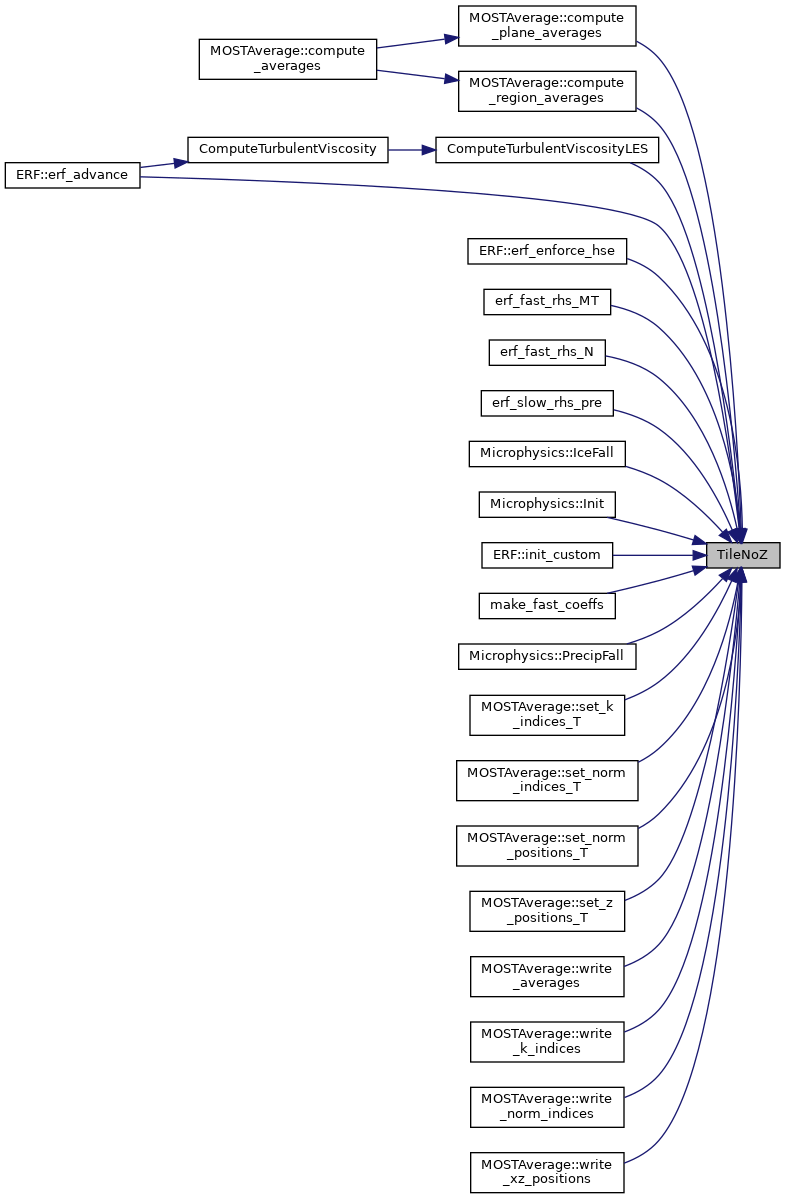
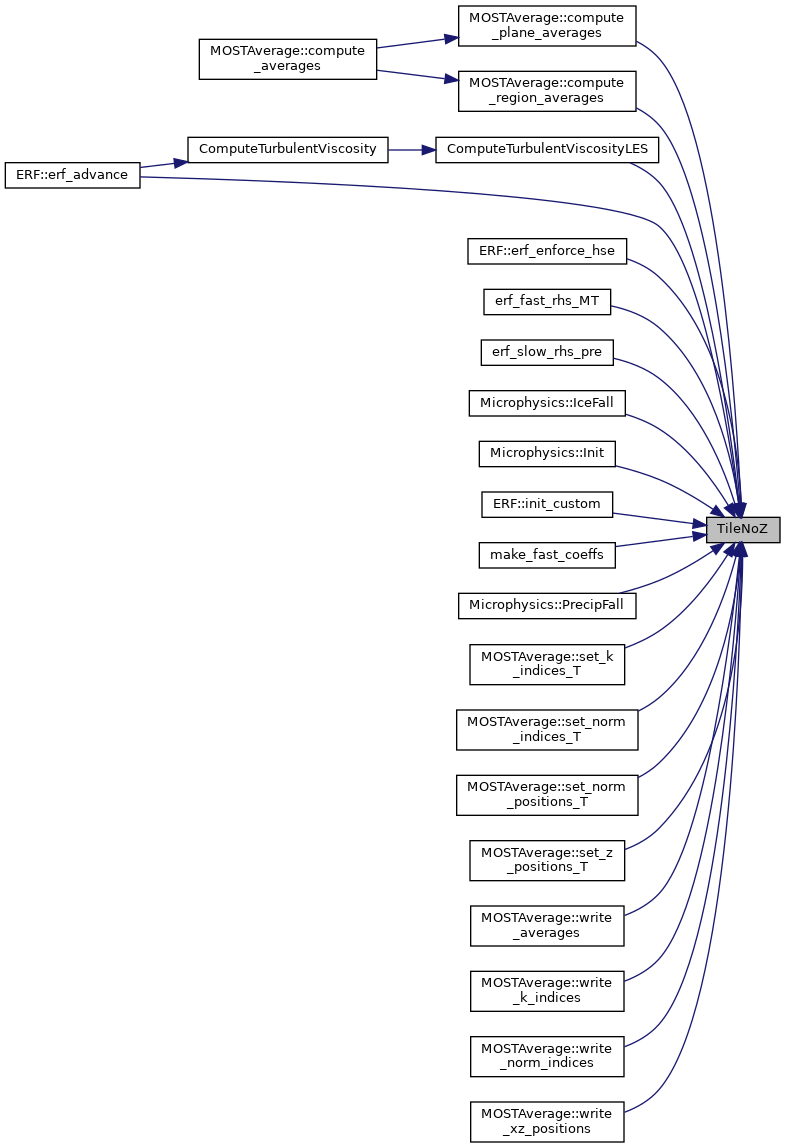
Deployed from erf-model/ERF

Changed region(s): [[0.0, 0.0, 1.0, 1.0]]

diff --git a/TileNoZ_8H.html b/TileNoZ_8H.html
@@ -159,34 +159,33 @@ Functions</h2></td></tr>
 <div class="line"><a name="l00017"></a><span class="lineno">   17</span>&#160;    }</div>
 <div class="line"><a name="l00018"></a><span class="lineno">   18</span>&#160;}</div>
 </div><!-- fragment -->
-<p class="reference">Referenced by <a class="el" href="classMOSTAverage.html#ab85828af24cd22d737931c51862389e4">MOSTAverage::compute_plane_averages()</a>, <a class="el" href="classMOSTAverage.html#aaea0b00766b3cdeefd2b54bade8a86bd">MOSTAverage::compute_region_averages()</a>, <a class="el" href="ComputeTurbulentViscosity_8cpp.html#a5f38bf67ee940aef98521a39567d118f">ComputeTurbulentViscosityLES()</a>, <a class="el" href="classERF.html#a9a433af6374ce91656cdcce017211d3c">ERF::erf_advance()</a>, <a class="el" href="classERF.html#a1f4902e264ff9b48001461c3555c0590">ERF::erf_enforce_hse()</a>, <a class="el" href="ERF__fast__rhs__MT_8cpp.html#aeeb87459a2ea185bee104cfb365acdb2">erf_fast_rhs_MT()</a>, <a class="el" href="ERF__fast__rhs__N_8cpp.html#aadacad33479f795b919b2ecb6e5ebc8d">erf_fast_rhs_N()</a>, <a class="el" href="ERF__slow__rhs__pre_8cpp.html#ab2b905f4565b08ff821adadef3dafe81">erf_slow_rhs_pre()</a>, <a class="el" href="classMicrophysics.html#a1a610a19be3a183229eea21306ef1b07">Microphysics::IceFall()</a>, <a class="el" href="classMicrophysics.html#a6c80ba07cd87a8f385ccfdf1a3a21c25">Microphysics::Init()</a>, <a class="el" href="classERF.html#a604939a8058f7efa36a427adb889739c">ERF::init_custom()</a>, <a class="el" href="ERF__make__fast__coeffs_8cpp.html#a383bfe63fc9258f3ad1b943b58b9341f">make_fast_coeffs()</a>, <a class="el" href="classMicrophysics.html#ab4ab2a17016feb12618a4c6e6c72febc">Microphysics::PrecipFall()</a>, <a class="el" href="classMOSTAverage.html#a1892a3f9c2175cd2323d8d3a3bc83b6c">MOSTAverage::set_k_indices_T()</a>, <a class="el" href="classMOSTAverage.html#a2908278cc9088e345af422a187eba337">MOSTAverage::set_norm_indices_T()</a>, <a class="el" href="classMOSTAverage.html#a697396705fddae5c919c7e4020cf20b2">MOSTAverage::set_norm_positions_T()</a>, <a class="el" href="classMOSTAverage.html#a96178b02bec37f171ef608cec9a246bf">MOSTAverage::set_z_positions_T()</a>, <a class="el" href="classMOSTAverage.html#ac37b71ce655ea973ad6fc4c564b040c1">MOSTAverage::write_averages()</a>, <a class="el" href="classMOSTAverage.html#a612fdb06ff433e33c717198c7e3e4b0b">MOSTAverage::write_k_indices()</a>, <a class="el" href="classMOSTAverage.html#ab886a0b96314880c4769318c81b23fbb">MOSTAverage::write_norm_indices()</a>, and <a class="el" href="classMOSTAverage.html#a221a026c642af21a051b05b2b4ea763a">MOSTAverage::write_xz_positions()</a>.</p>
+<p class="reference">Referenced by <a class="el" href="classMOSTAverage.html#ab85828af24cd22d737931c51862389e4">MOSTAverage::compute_plane_averages()</a>, <a class="el" href="classMOSTAverage.html#aaea0b00766b3cdeefd2b54bade8a86bd">MOSTAverage::compute_region_averages()</a>, <a class="el" href="ComputeTurbulentViscosity_8cpp.html#a5f38bf67ee940aef98521a39567d118f">ComputeTurbulentViscosityLES()</a>, <a class="el" href="classERF.html#a9a433af6374ce91656cdcce017211d3c">ERF::erf_advance()</a>, <a class="el" href="classERF.html#a1f4902e264ff9b48001461c3555c0590">ERF::erf_enforce_hse()</a>, <a class="el" href="ERF__fast__rhs__MT_8cpp.html#aeeb87459a2ea185bee104cfb365acdb2">erf_fast_rhs_MT()</a>, <a class="el" href="ERF__slow__rhs__pre_8cpp.html#ab2b905f4565b08ff821adadef3dafe81">erf_slow_rhs_pre()</a>, <a class="el" href="classMicrophysics.html#a1a610a19be3a183229eea21306ef1b07">Microphysics::IceFall()</a>, <a class="el" href="classMicrophysics.html#a6c80ba07cd87a8f385ccfdf1a3a21c25">Microphysics::Init()</a>, <a class="el" href="classERF.html#a604939a8058f7efa36a427adb889739c">ERF::init_custom()</a>, <a class="el" href="ERF__make__fast__coeffs_8cpp.html#a383bfe63fc9258f3ad1b943b58b9341f">make_fast_coeffs()</a>, <a class="el" href="classMicrophysics.html#ab4ab2a17016feb12618a4c6e6c72febc">Microphysics::PrecipFall()</a>, <a class="el" href="classMOSTAverage.html#a1892a3f9c2175cd2323d8d3a3bc83b6c">MOSTAverage::set_k_indices_T()</a>, <a class="el" href="classMOSTAverage.html#a2908278cc9088e345af422a187eba337">MOSTAverage::set_norm_indices_T()</a>, <a class="el" href="classMOSTAverage.html#a697396705fddae5c919c7e4020cf20b2">MOSTAverage::set_norm_positions_T()</a>, <a class="el" href="classMOSTAverage.html#a96178b02bec37f171ef608cec9a246bf">MOSTAverage::set_z_positions_T()</a>, <a class="el" href="classMOSTAverage.html#ac37b71ce655ea973ad6fc4c564b040c1">MOSTAverage::write_averages()</a>, <a class="el" href="classMOSTAverage.html#a612fdb06ff433e33c717198c7e3e4b0b">MOSTAverage::write_k_indices()</a>, <a class="el" href="classMOSTAverage.html#ab886a0b96314880c4769318c81b23fbb">MOSTAverage::write_norm_indices()</a>, and <a class="el" href="classMOSTAverage.html#a221a026c642af21a051b05b2b4ea763a">MOSTAverage::write_xz_positions()</a>.</p>
 <div class="dynheader">
 Here is the caller graph for this function:</div>
 <div class="dyncontent">
 <div class="center"><img src="TileNoZ_8H_a8da113f1d5603f7297fe1d03e5013f00_icgraph.png" border="0" usemap="#aTileNoZ_8H_a8da113f1d5603f7297fe1d03e5013f00_icgraph" alt=""/></div>
 <map name="aTileNoZ_8H_a8da113f1d5603f7297fe1d03e5013f00_icgraph" id="aTileNoZ_8H_a8da113f1d5603f7297fe1d03e5013f00_icgraph">
-<area shape="rect" title=" " alt="" coords="707,542,780,569"/>
+<area shape="rect" title=" " alt="" coords="707,517,780,543"/>
 <area shape="rect" href="classMOSTAverage.html#ab85828af24cd22d737931c51862389e4" title=" " alt="" coords="459,5,636,47"/>
 <area shape="rect" href="classMOSTAverage.html#aaea0b00766b3cdeefd2b54bade8a86bd" title=" " alt="" coords="459,71,636,112"/>
 <area shape="rect" href="ComputeTurbulentViscosity_8cpp.html#a5f38bf67ee940aef98521a39567d118f" title=" " alt="" coords="436,137,659,163"/>
 <area shape="rect" href="classERF.html#a9a433af6374ce91656cdcce017211d3c" title=" " alt="" coords="5,162,140,189"/>
 <area shape="rect" href="classERF.html#a1f4902e264ff9b48001461c3555c0590" title=" " alt="" coords="468,238,627,265"/>
 <area shape="rect" href="ERF__fast__rhs__MT_8cpp.html#aeeb87459a2ea185bee104cfb365acdb2" title=" " alt="" coords="484,289,611,315"/>
-<area shape="rect" href="ERF__fast__rhs__N_8cpp.html#aadacad33479f795b919b2ecb6e5ebc8d" title=" " alt="" coords="489,339,605,366"/>
-<area shape="rect" href="ERF__slow__rhs__pre_8cpp.html#ab2b905f4565b08ff821adadef3dafe81" title=" " alt="" coords="481,390,613,417"/>
-<area shape="rect" href="classMicrophysics.html#a1a610a19be3a183229eea21306ef1b07" title=" " alt="" coords="469,441,625,467"/>
-<area shape="rect" href="classMicrophysics.html#a6c80ba07cd87a8f385ccfdf1a3a21c25" title=" " alt="" coords="479,491,615,518"/>
-<area shape="rect" href="classERF.html#a604939a8058f7efa36a427adb889739c" title=" " alt="" coords="482,542,613,569"/>
-<area shape="rect" href="ERF__make__fast__coeffs_8cpp.html#a383bfe63fc9258f3ad1b943b58b9341f" title=" " alt="" coords="479,593,615,619"/>
-<area shape="rect" href="classMicrophysics.html#ab4ab2a17016feb12618a4c6e6c72febc" title=" " alt="" coords="459,643,636,670"/>
-<area shape="rect" href="classMOSTAverage.html#a1892a3f9c2175cd2323d8d3a3bc83b6c" title=" " alt="" coords="470,695,625,736"/>
-<area shape="rect" href="classMOSTAverage.html#a2908278cc9088e345af422a187eba337" title=" " alt="" coords="457,760,638,801"/>
-<area shape="rect" href="classMOSTAverage.html#a697396705fddae5c919c7e4020cf20b2" title=" " alt="" coords="457,825,638,867"/>
-<area shape="rect" href="classMOSTAverage.html#a96178b02bec37f171ef608cec9a246bf" title=" " alt="" coords="470,891,625,932"/>
-<area shape="rect" href="classMOSTAverage.html#ac37b71ce655ea973ad6fc4c564b040c1" title=" " alt="" coords="471,956,624,997"/>
-<area shape="rect" href="classMOSTAverage.html#a612fdb06ff433e33c717198c7e3e4b0b" title=" " alt="" coords="471,1021,624,1063"/>
-<area shape="rect" href="classMOSTAverage.html#ab886a0b96314880c4769318c81b23fbb" title=" " alt="" coords="471,1087,624,1128"/>
-<area shape="rect" href="classMOSTAverage.html#a221a026c642af21a051b05b2b4ea763a" title=" " alt="" coords="471,1152,624,1193"/>
+<area shape="rect" href="ERF__slow__rhs__pre_8cpp.html#ab2b905f4565b08ff821adadef3dafe81" title=" " alt="" coords="481,339,613,366"/>
+<area shape="rect" href="classMicrophysics.html#a1a610a19be3a183229eea21306ef1b07" title=" " alt="" coords="469,390,625,417"/>
+<area shape="rect" href="classMicrophysics.html#a6c80ba07cd87a8f385ccfdf1a3a21c25" title=" " alt="" coords="479,441,615,467"/>
+<area shape="rect" href="classERF.html#a604939a8058f7efa36a427adb889739c" title=" " alt="" coords="482,491,613,518"/>
+<area shape="rect" href="ERF__make__fast__coeffs_8cpp.html#a383bfe63fc9258f3ad1b943b58b9341f" title=" " alt="" coords="479,542,615,569"/>
+<area shape="rect" href="classMicrophysics.html#ab4ab2a17016feb12618a4c6e6c72febc" title=" " alt="" coords="459,593,636,619"/>
+<area shape="rect" href="classMOSTAverage.html#a1892a3f9c2175cd2323d8d3a3bc83b6c" title=" " alt="" coords="470,644,625,685"/>
+<area shape="rect" href="classMOSTAverage.html#a2908278cc9088e345af422a187eba337" title=" " alt="" coords="457,709,638,751"/>
+<area shape="rect" href="classMOSTAverage.html#a697396705fddae5c919c7e4020cf20b2" title=" " alt="" coords="457,775,638,816"/>
+<area shape="rect" href="classMOSTAverage.html#a96178b02bec37f171ef608cec9a246bf" title=" " alt="" coords="470,840,625,881"/>
+<area shape="rect" href="classMOSTAverage.html#ac37b71ce655ea973ad6fc4c564b040c1" title=" " alt="" coords="471,905,624,947"/>
+<area shape="rect" href="classMOSTAverage.html#a612fdb06ff433e33c717198c7e3e4b0b" title=" " alt="" coords="471,971,624,1012"/>
+<area shape="rect" href="classMOSTAverage.html#ab886a0b96314880c4769318c81b23fbb" title=" " alt="" coords="471,1036,624,1077"/>
+<area shape="rect" href="classMOSTAverage.html#a221a026c642af21a051b05b2b4ea763a" title=" " alt="" coords="471,1101,624,1143"/>
 <area shape="rect" href="classMOSTAverage.html#a7a28005871bb8abb49f44c3976133a4f" title=" " alt="" coords="199,39,377,80"/>
 <area shape="rect" href="ComputeTurbulentViscosity_8cpp.html#a6f88eeb22db221477763a0bc21307258" title=" " alt="" coords="188,137,388,163"/>
 </map>

diff --git a/ERF__fast__rhs__N_8cpp.html b/ERF__fast__rhs__N_8cpp.html
@@ -369,8 +369,8 @@ Functions</h2></td></tr>
 <div class="line"><a name="l00135"></a><span class="lineno">  135</span>&#160;<span class="preprocessor">#ifdef _OPENMP</span></div>
 <div class="line"><a name="l00136"></a><span class="lineno">  136</span>&#160;<span class="preprocessor">#pragma omp parallel if (amrex::Gpu::notInLaunchRegion())</span></div>
 <div class="line"><a name="l00137"></a><span class="lineno">  137</span>&#160;<span class="preprocessor">#endif</span></div>
-<div class="line"><a name="l00138"></a><span class="lineno">  138</span>&#160;    <span class="keywordflow">for</span> ( MFIter mfi(S_stage_data[<a class="code" href="namespaceIntVar.html#ae96c1cd796f723e15dfbf718f1a9c76da22501eeeb48d3d47f802dcb78c88f7ae">IntVar::cons</a>],<a class="code" href="TileNoZ_8H.html#a8da113f1d5603f7297fe1d03e5013f00">TileNoZ</a>()); mfi.isValid(); ++mfi)</div>
-<div class="line"><a name="l00139"></a><span class="lineno">  139</span>&#160;<span class="comment">//  for ( MFIter mfi(S_stage_data[IntVar::cons],false); mfi.isValid(); ++mfi)</span></div>
+<div class="line"><a name="l00138"></a><span class="lineno">  138</span>&#160;<span class="comment">//  for ( MFIter mfi(S_stage_data[IntVar::cons],TileNoZ()); mfi.isValid(); ++mfi)</span></div>
+<div class="line"><a name="l00139"></a><span class="lineno">  139</span>&#160;    <span class="keywordflow">for</span> ( MFIter mfi(S_stage_data[<a class="code" href="namespaceIntVar.html#ae96c1cd796f723e15dfbf718f1a9c76da22501eeeb48d3d47f802dcb78c88f7ae">IntVar::cons</a>],<span class="keyword">false</span>); mfi.isValid(); ++mfi)</div>
 <div class="line"><a name="l00140"></a><span class="lineno">  140</span>&#160;    {</div>
 <div class="line"><a name="l00141"></a><span class="lineno">  141</span>&#160;        <span class="comment">// Construct intersection of current tilebox and valid region for updating</span></div>
 <div class="line"><a name="l00142"></a><span class="lineno">  142</span>&#160;        Box bx = mfi.tilebox() &amp; grids_to_evolve[mfi.index()];</div>
@@ -731,23 +731,13 @@ Functions</h2></td></tr>
 <div class="ttc" id="aIndexDefines_8H_html_a27dcc910aeb002a0fd44727954dc0e49"><div class="ttname"><a href="IndexDefines_8H.html#a27dcc910aeb002a0fd44727954dc0e49">Rho_comp</a></div><div class="ttdeci">#define Rho_comp</div><div class="ttdef"><b>Definition:</b> IndexDefines.H:8</div></div>
 <div class="ttc" id="aIndexDefines_8H_html_a28f96fd04e1ff08fa7a8f53ccde0f877"><div class="ttname"><a href="IndexDefines_8H.html#a28f96fd04e1ff08fa7a8f53ccde0f877">RhoTheta_comp</a></div><div class="ttdeci">#define RhoTheta_comp</div><div class="ttdef"><b>Definition:</b> IndexDefines.H:9</div></div>
 <div class="ttc" id="aIndexDefines_8H_html_a8b9c5b827b61f426a3879bc5d2883040"><div class="ttname"><a href="IndexDefines_8H.html#a8b9c5b827b61f426a3879bc5d2883040">PrimTheta_comp</a></div><div class="ttdeci">#define PrimTheta_comp</div><div class="ttdef"><b>Definition:</b> IndexDefines.H:26</div></div>
-<div class="ttc" id="aTileNoZ_8H_html_a8da113f1d5603f7297fe1d03e5013f00"><div class="ttname"><a href="TileNoZ_8H.html#a8da113f1d5603f7297fe1d03e5013f00">TileNoZ</a></div><div class="ttdeci">AMREX_FORCE_INLINE amrex::IntVect TileNoZ()</div><div class="ttdef"><b>Definition:</b> TileNoZ.H:8</div></div>
 <div class="ttc" id="anamespaceIntVar_html_ae96c1cd796f723e15dfbf718f1a9c76da22501eeeb48d3d47f802dcb78c88f7ae"><div class="ttname"><a href="namespaceIntVar.html#ae96c1cd796f723e15dfbf718f1a9c76da22501eeeb48d3d47f802dcb78c88f7ae">IntVar::cons</a></div><div class="ttdeci">@ cons</div><div class="ttdef"><b>Definition:</b> IndexDefines.H:177</div></div>
 <div class="ttc" id="anamespaceIntVar_html_ae96c1cd796f723e15dfbf718f1a9c76daa06e9caed4d0b72c322646815c1a96ce"><div class="ttname"><a href="namespaceIntVar.html#ae96c1cd796f723e15dfbf718f1a9c76daa06e9caed4d0b72c322646815c1a96ce">IntVar::ymom</a></div><div class="ttdeci">@ ymom</div><div class="ttdef"><b>Definition:</b> IndexDefines.H:179</div></div>
 <div class="ttc" id="anamespaceIntVar_html_ae96c1cd796f723e15dfbf718f1a9c76dabde409cfd9edf4a3581fe26dfa9613cd"><div class="ttname"><a href="namespaceIntVar.html#ae96c1cd796f723e15dfbf718f1a9c76dabde409cfd9edf4a3581fe26dfa9613cd">IntVar::zmom</a></div><div class="ttdeci">@ zmom</div><div class="ttdef"><b>Definition:</b> IndexDefines.H:180</div></div>
 <div class="ttc" id="anamespaceIntVar_html_ae96c1cd796f723e15dfbf718f1a9c76dad22d96cf9b7b4dd875cea33d3ec0b481"><div class="ttname"><a href="namespaceIntVar.html#ae96c1cd796f723e15dfbf718f1a9c76dad22d96cf9b7b4dd875cea33d3ec0b481">IntVar::xmom</a></div><div class="ttdeci">@ xmom</div><div class="ttdef"><b>Definition:</b> IndexDefines.H:178</div></div>
 <div class="ttc" id="astructSolverChoice_html_a063a88594452100497651e8aaf1f68d7"><div class="ttname"><a href="structSolverChoice.html#a063a88594452100497651e8aaf1f68d7">SolverChoice::use_terrain</a></div><div class="ttdeci">bool use_terrain</div><div class="ttdef"><b>Definition:</b> DataStruct.H:346</div></div>
 <div class="ttc" id="astructSolverChoice_html_a47a54f2e44955202b5b437e4b1b4a61b"><div class="ttname"><a href="structSolverChoice.html#a47a54f2e44955202b5b437e4b1b4a61b">SolverChoice::gravity</a></div><div class="ttdeci">amrex::Real gravity</div><div class="ttdef"><b>Definition:</b> DataStruct.H:366</div></div>
-</div><!-- fragment --><div class="dynheader">
-Here is the call graph for this function:</div>
-<div class="dyncontent">
-<div class="center"><img src="ERF__fast__rhs__N_8cpp_aadacad33479f795b919b2ecb6e5ebc8d_cgraph.png" border="0" usemap="#aERF__fast__rhs__N_8cpp_aadacad33479f795b919b2ecb6e5ebc8d_cgraph" alt=""/></div>
-<map name="aERF__fast__rhs__N_8cpp_aadacad33479f795b919b2ecb6e5ebc8d_cgraph" id="aERF__fast__rhs__N_8cpp_aadacad33479f795b919b2ecb6e5ebc8d_cgraph">
-<area shape="rect" title=" " alt="" coords="5,5,121,32"/>
-<area shape="rect" href="TileNoZ_8H.html#a8da113f1d5603f7297fe1d03e5013f00" title=" " alt="" coords="169,5,243,32"/>
-</map>
-</div>
-
+</div><!-- fragment -->
 </div>
 </div>
 </div><!-- contents -->
